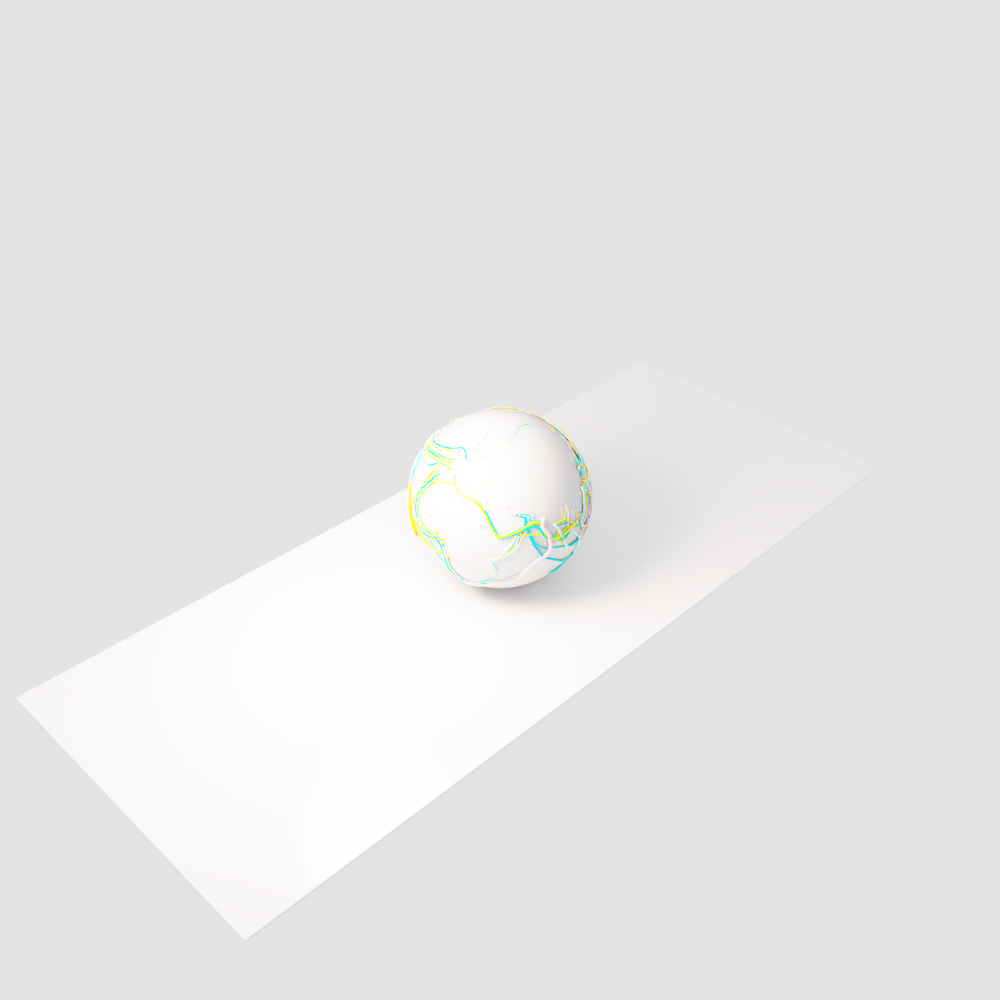
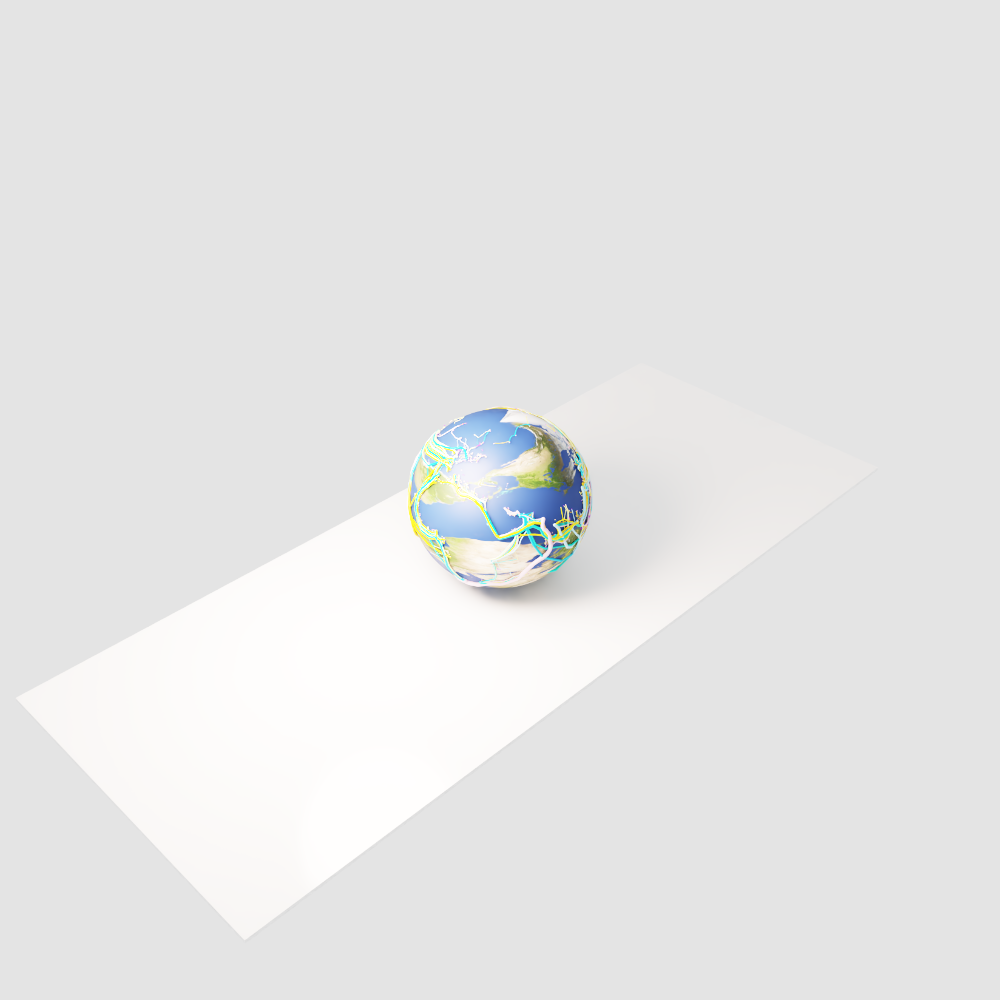
fix(backend): image textures on surface! (st UVs for the materialized grid)
F2 follow-up. A materialized surface! (image color) bound an OmniPBR diffuse_texture but
emitted its grid mesh WITHOUT st UVs → the texture sampled nothing and the surface rendered
white. Add _surface_texcoords(nx,ny) (parametric u=(i-1)/(nx-1), v=(j-1)/(ny-1), i-major) and
pass it to usda_mesh when the surface is textured. submarineCables' globe is now earth-textured.
Test: test/m4_surface_texture_test.jl (unit + subprocess checker-texture render).

Changed region(s): [[0.403, 0.403, 0.589, 0.62]]

diff --git a/examples/README.md b/examples/README.md
@@ -76,9 +76,8 @@ adaptations:
   `material=(; metallic, roughness, opacity)`.
 - **Image textures** are passed in **natural orientation** (`color = img`). RPRMakie's UV
   convention is transposed relative to ours, so the originals' `img'` transpose is dropped —
-  with it, the texture renders rotated 90°. Note: image textures are carried through `mesh!`
-  but **not** `surface!`, so `submarineCables`' globe renders white (the cable routes are the
-  subject).
+  with it, the texture renders rotated 90°. Image textures are carried through both `mesh!`
+  and `surface!` (the surface samples a `diffuse_texture` over its grid's parametric `st` UVs).
 - **Lights** keep `PointLight`/`EnvironmentLight`; note `PointLight` is `PointLight(color,
   position)` here. Image-based environment maps are best-effort (a neutral dome) — the key/
   fill point lights carry the scenes' lighting.